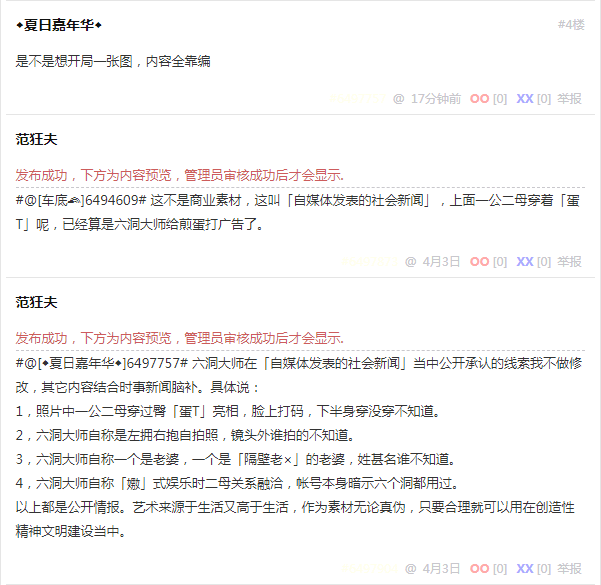
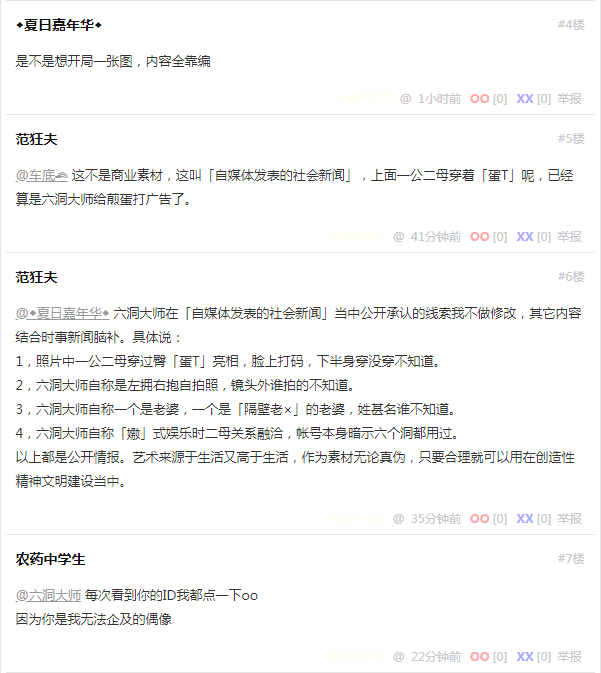
补充素材

diff --git a/at_jandan/2_qa/qa-4524366.html b/at_jandan/2_qa/qa-4524366.html
@@ -49,12 +49,12 @@
             <p>而且也不在武汉，这是怎么回事？</p>
         </article>
         <article class="message">
-            <header class="message"><span class="heading"><abbr class="uid">◆夏日嘉年华◆</abbr></span></header>
-            <p>是不是想开局一张图，内容全靠编</p>
-        </article>
-        <article class="message">
             <header class="myself"><span class="heading"><abbr class="myself">范狂夫</abbr>回复<abbr class="uid">六洞大师</abbr></span></header>
             <p>继续提供细节吖，最近写到中央钦定的武汉人生赢家，考上三洞大学之后就被分配了仨学伴，三个屁股六个洞；回到武汉之后成家立业，嫌一个老婆三个洞不够，就勾搭隔壁老谁家老婆，总算凑够六个洞了也。这人物设定与你之前不打自招的爆料相当接近吖。</p>
+        </article>
+        <article class="message">
+            <header class="message"><span class="heading"><abbr class="uid">◆夏日嘉年华◆</abbr></span></header>
+            <p>是不是想开局一张图，内容全靠编</p>
         </article>
         <article class="message">
             <header class="myself"><span class="heading"><abbr class="myself">范狂夫</abbr>回复<abbr class="uid">车底🌈</abbr></span></header>
@@ -70,6 +70,11 @@
                 <li>六洞大师自称「嫐」式娱乐时二母关系融洽，帐号本身暗示六个洞都用过。</li>
             </ol>
             <p>以上都是公开情报。艺术来源于生活又高于生活，作为素材无论真伪，只要合理就可以用在创造性精神文明建设当中。</p>
+        </article>
+        <article class="message">
+            <header class="message"><span class="heading"><abbr class="uid">农药中学生</abbr>回复<abbr class="uid">六洞大师</abbr></span></header>
+            <p>每次看到你的ID我都点一下oo</p>
+            <p>因为你是我无法企及的偶像</p>
         </article>
     </main>
     <div class="signature">
